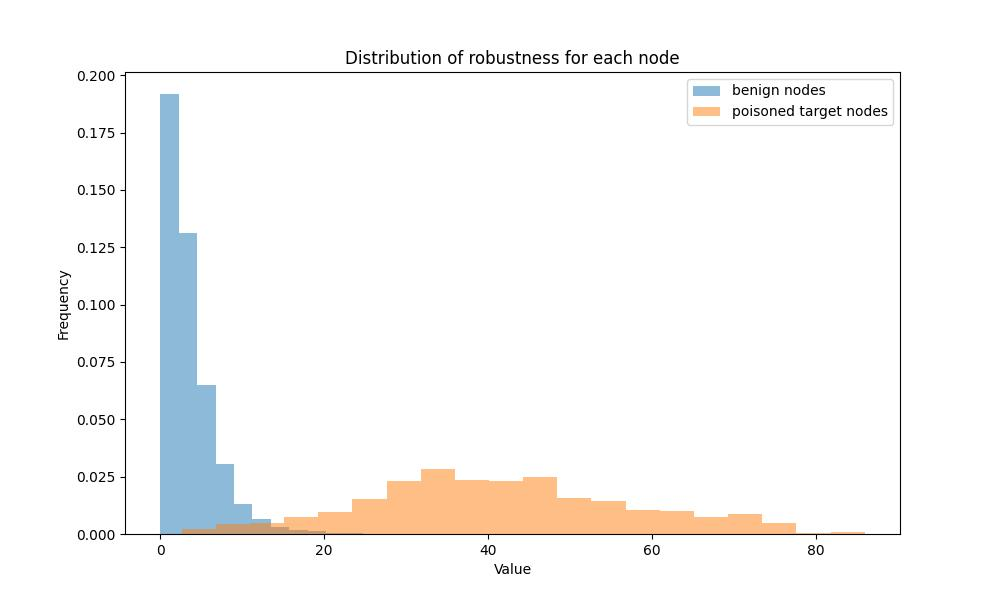
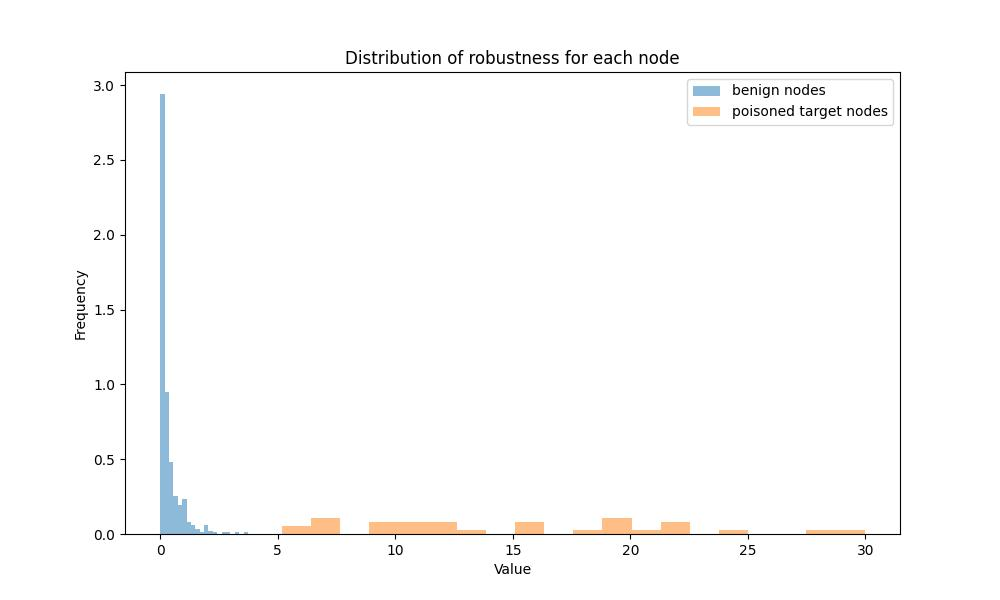
implement RS

diff --git a/pre/models/random_smooth.py b/pre/models/random_smooth.py
@@ -1,0 +1,171 @@
+import torch 
+from torch.distributions.bernoulli import Bernoulli
+import numpy as np
+
+
+import torch.nn as nn
+import torch.nn.functional as F
+import torch.optim as optim
+import utils
+from copy import deepcopy
+
+
+class RS(nn.Module):
+    def __init__(self, model_name, model, prob_drop, device):
+        super(RS, self).__init__()
+        self.model_name = model_name
+        self.prob_drop = prob_drop
+        assert 0 < prob_drop < 1, "prob_drop must be between 0 and 1 (exclusive)"
+        self.model = model
+        self.device = device
+
+    def sample_noise_all(self, prob_drop, edge_index, edge_weight,device):
+        prob_retain = 1 - prob_drop
+        noisy_edge_index = edge_index.clone().detach()
+        if(edge_weight == None):
+            noisy_edge_weight = torch.ones([noisy_edge_index.shape[1],]).to(device)
+        else:
+            noisy_edge_weight = edge_weight.clone().detach()
+        # # rand_noise_data = copy.deepcopy(data)
+        # rand_noise_data.edge_weight = torch.ones([rand_noise_data.edge_index.shape[1],]).to(device)
+        m = Bernoulli(torch.tensor([prob_retain]).to(device))
+        mask = m.sample(noisy_edge_weight.shape).squeeze(-1).int()
+        rand_inputs = torch.randint_like(noisy_edge_weight, low=0, high=2).squeeze().int().to(device)
+        # print(rand_noise_data.edge_weight.shape,mask.shape)
+        noisy_edge_weight = noisy_edge_weight * mask #+ rand_inputs * (1-mask)
+            
+        if(noisy_edge_weight!=None):
+            noisy_edge_index = noisy_edge_index[:,noisy_edge_weight.nonzero().flatten().long()]
+            noisy_edge_weight = torch.ones([noisy_edge_index.shape[1],]).to(device)
+        return noisy_edge_index, noisy_edge_weight
+    def forward(self, features, edge_index, edge_weight):
+        if(self.model_name == 'GCN'):
+            output, x = self.model.forward(features, edge_index, edge_weight)
+        elif(self.model_name in ['GAT','GraphSAGE','GIN']):
+            output= self.model.forward(features, edge_index, edge_weight)
+        else:
+            raise NotImplementedError("No implemented model")
+        return output
+        
+
+    def fit(self, features, edge_index, edge_weight, labels, idx_train, idx_val=None, train_iters=200, verbose=False, finetune=False, attach=None):
+        """Train the gcn model, when idx_val is not None, pick the best model according to the validation loss.
+        Parameters
+        ----------
+        features :
+            node features
+        adj :
+            the adjacency matrix. The format could be torch.tensor or scipy matrix
+        labels :
+            node labels
+        idx_train :
+            node training indices
+        idx_val :
+            node validation indices. If not given (None), GCN training process will not adpot early stopping
+        train_iters : int
+            number of training epochs
+        initialize : bool
+            whether to initialize parameters before training
+        verbose : bool
+            whether to show verbose logs
+
+        """
+        # assert 0 < prob_drop < 1, "prob_drop must be between 0 and 1 (exclusive)"
+    
+        self.edge_index, self.edge_weight = edge_index, edge_weight
+        self.features = features.to(self.device)
+        self.labels = labels.to(self.device)
+        # self.prob_drop = prob_drop
+
+        if idx_val is None:
+            self._train_without_val_with_RS(self.labels, idx_train, train_iters, verbose)
+        else:
+            self._train_with_val_with_RS(self.labels, idx_train, idx_val, train_iters, verbose)
+
+    def _train_without_val(self, labels, idx_train, train_iters, verbose):
+        self.model.train()
+        optimizer = optim.Adam(self.parameters(), lr=self.lr, weight_decay=self.weight_decay)
+        for i in range(train_iters):
+            optimizer.zero_grad()
+
+            rs_edge_index, rs_edge_weight = self.sample_noise_all(self.prob_drop, self.edge_index, self.edge_weight, self.device)
+            output = self.forward(self.features, rs_edge_index, rs_edge_weight)
+
+            loss_train = F.nll_loss(output[idx_train], labels[idx_train])
+            
+            loss_train.backward()
+            optimizer.step()
+            if verbose and i % 10 == 0:
+                print('Epoch {}, training loss: {}'.format(i, loss_train.item()))
+
+        self.model.eval()
+        output = self.forward(self.features, self.edge_index, self.edge_weight)
+        self.output = output
+
+    def _train_with_val_with_RS(self, labels, idx_train, idx_val, train_iters, verbose):
+        if verbose:
+            print('=== training gnn model ===')
+        optimizer = optim.Adam(self.model.parameters(), lr=self.model.lr, weight_decay=self.model.weight_decay)
+
+        best_loss_val = 100
+        best_acc_val = 0
+
+        for i in range(train_iters):
+            self.model.train()
+            optimizer.zero_grad()
+
+            rs_edge_index, rs_edge_weight = self.sample_noise_all(self.prob_drop, self.edge_index, self.edge_weight, self.device)
+
+            output = self.forward(self.features, rs_edge_index, rs_edge_weight)
+
+            loss_train = F.nll_loss(output[idx_train], labels[idx_train])
+            loss_train.backward()
+            optimizer.step()
+
+
+
+            self.model.eval()
+            rs_edge_index, rs_edge_weight = self.sample_noise_all(self.prob_drop, self.edge_index, self.edge_weight, self.device)
+            output = self.forward(self.features, rs_edge_index, rs_edge_weight)
+            loss_val = F.nll_loss(output[idx_val], labels[idx_val])
+            acc_val = utils.accuracy(output[idx_val], labels[idx_val])
+            
+            if verbose and i % 10 == 0:
+                print('Epoch {}, training loss: {}'.format(i, loss_train.item()))
+                print("acc_val: {:.4f}".format(acc_val))
+            if acc_val > best_acc_val:
+                best_acc_val = acc_val
+                self.output = output
+                weights = deepcopy(self.model.state_dict())
+
+        if verbose:
+            print('=== picking the best model according to the performance on validation ===')
+        self.model.load_state_dict(weights)
+
+    def test(self, features, edge_index, edge_weight, labels,idx_test):
+        """Evaluate GCN performance on test set.
+        Parameters
+        ----------
+        idx_test :
+            node testing indices
+        """
+        
+        self.model.eval()
+        with torch.no_grad():
+            rs_edge_index, rs_edge_weight = self.sample_noise_all(self.prob_drop, edge_index, edge_weight, self.device)
+            output = self.forward(features, rs_edge_index, rs_edge_weight)
+
+            acc_test = utils.accuracy(output[idx_test], labels[idx_test])
+        return float(acc_test)
+    
+    def attack_evaluation(self, args, x, edge_index, edge_weight, labels, idx_atk, idx_clean_test):
+        rs_edge_index, rs_edge_weight = self.sample_noise_all(self.prob_drop, edge_index, edge_weight, self.device)
+        output = self.forward(x, rs_edge_index, rs_edge_weight)
+        train_attach_rate = (output.argmax(dim=1)[idx_atk]==args.target_class).float().mean()
+        print("ASR: {:.4f}".format(train_attach_rate))
+        asr = train_attach_rate
+        flip_idx_atk = idx_atk[(labels[idx_atk] != args.target_class).nonzero().flatten()]
+        flip_asr = (output.argmax(dim=1)[flip_idx_atk]==args.target_class).float().mean()
+        print("Flip ASR: {:.4f}/{} nodes".format(flip_asr,flip_idx_atk.shape[0]))
+        ca = self.test(x,rs_edge_index,rs_edge_weight,labels,idx_clean_test)
+        print("CA: {:.4f}".format(ca))

diff --git a/pre/models/GAT.py b/pre/models/GAT.py
@@ -66,6 +66,7 @@ class GAT(nn.Module):
         else:
             self._train_with_val(self.labels, idx_train, idx_val, train_iters, verbose)
 
+
     def _train_without_val(self, labels, idx_train, train_iters, verbose):
         self.train()
         optimizer = optim.Adam(self.parameters(), lr=self.lr, weight_decay=self.weight_decay)
